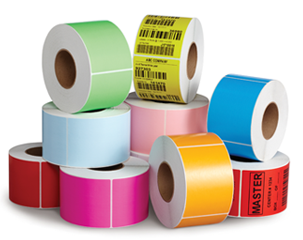
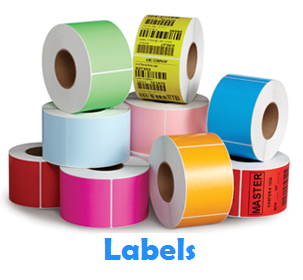
Added pictures with labels on the front page.
This lets the user know exactly what the products are.

diff --git a/home.html b/home.html
@@ -21,10 +21,10 @@
 			<div class="menu-newnav2-container" style="display:inline-block" ><ul id="menu-newnav2" class="menu"><li id="menu-item-4461" ><a href="home.html">Home</a></li>
 <li id="menu-item-3802" ><a>Products</a>
 <ul class="sub-menu">
-	<li id="menu-item-5978" ><a href="/products/Corrugated.html">Corrugated Boxes</a></li>
-	<li id="menu-item-6022" ><a href="/products/labels.html">Labels</a></li>
-	<li id="menu-item-5035" ><a href="/products/bags.html">Bags</a></li>
-	<li id="menu-item-5035" ><a href="/products/rollfilm.html">Roll film</a></li>
+	<li id="menu-item-5978" ><a href="products/Corrugated.html">Corrugated Boxes</a></li>
+	<li id="menu-item-6022" ><a href="products/labels.html">Labels</a></li>
+	<li id="menu-item-5035" ><a href="products/bags.html">Bags</a></li>
+	<li id="menu-item-5035" ><a href="products/rollfilm.html">Roll film</a></li>
 	
 </ul>
 </li>
@@ -62,7 +62,7 @@
 			<!-- So I need to add slide html here -->
 			<div style="margin: 10px 0;"> <div  class="fadelinks">
 <!-- <img src="http://www.completedesignpackaging.com/getattachment/599c74f0-3db9-4c49-8f2f-d47c300f49a3/Charlotte-DNC.aspx?maxsidesize=600" width="900" height="350" align="middle"> -->
-<img alt="" src="http://s15.postimg.org/axr15xpt7/image1.jpg" width="900" height="350" >
+<!-- <img alt="" src="http://s15.postimg.org/axr15xpt7/image1.jpg" width="900" height="350" > -->
 <img alt="" src="http://s13.postimg.org/kb9fyoc1j/products_618pix.jpg" width="900" height="350" >
 <img alt="" src="http://www.hrtlp.com/content/images/uploaded/thermaltransfer.png" width="900" height="350" >
 
@@ -73,10 +73,10 @@
 <div>
 	
 <ul class="nav-pic">
-<li><a title="" href="Corrugated.html"> <img alt="" src="http://s17.postimg.org/jzs19sfxr/corrugated.jpg" /></a></li>
-<li><a title="" href=""> <img alt="" src="http://s4.postimg.org/9mt57bajx/143875642262.png" /></a></li>
-<li><a title="" href=""> <img alt="" src="http://s4.postimg.org/n5461pril/plastic_film_l.jpg" /></a></li>
-<li><a title="" href=""> <img alt="" src="http://s21.postimg.org/hyrm40ko7/Color_Labels.png" /></a></li>
+<li><a title="" href="Corrugated.html"> <img alt="corrugated" src="http://s8.postimg.org/kpl7jbnf9/corrugated.jpg" /></a></li>
+<li><a title="" href=""> <img alt="bags" src="http://s7.postimg.org/8zg0fwwrf/bag.png" /></a></li>
+<li><a title="" href=""> <img alt="plastic film" src="http://s3.postimg.org/92zvdc54j/plastic_film_l_1.jpg" /></a></li>
+<li><a title="" href=""> <img alt="labels" src="http://s27.postimg.org/u6k116f3n/Color_Labels.png" /></a></li>
 </ul>
 </div>
 <div id="intro">

diff --git a/products/rollfilm.html b/products/rollfilm.html
@@ -8,8 +8,8 @@
 <script src="//code.jquery.com/jquery-migrate-1.2.1.min.js"></script>
 <link rel="stylesheet" href="//code.jquery.com/ui/1.11.4/themes/smoothness/jquery-ui.css"> 
  <script src="//code.jquery.com/ui/1.11.4/jquery-ui.js"></script>
-   <script src="home.js"></script>
-    <link rel="stylesheet" type="text/css" href="home.css">
+   <script src="../home.js"></script>
+    <link rel="stylesheet" type="text/css" href="../home.css">
     <script type="text/javascript">
 jQuery(document).ready(function(){
 
@@ -61,7 +61,7 @@ $(function() {
 </style>
 
 
-   <title>Corrugated Products</title>
+   <title>Roll film</title>
 </head>
 <!-- <div id="header-phone">Call 704-906-1135</div>
      <div class="clear"></div> -->

diff --git a/products/labels.html b/products/labels.html
@@ -8,8 +8,8 @@
 <script src="//code.jquery.com/jquery-migrate-1.2.1.min.js"></script>
 <link rel="stylesheet" href="//code.jquery.com/ui/1.11.4/themes/smoothness/jquery-ui.css"> 
  <script src="//code.jquery.com/ui/1.11.4/jquery-ui.js"></script>
-   <script src="home.js"></script>
-    <link rel="stylesheet" type="text/css" href="home.css">
+   <script src="../home.js"></script>
+    <link rel="stylesheet" type="text/css" href="../home.css">
     <script type="text/javascript">
 jQuery(document).ready(function(){
 
@@ -61,7 +61,7 @@ $(function() {
 </style>
 
 
-   <title>Corrugated Products</title>
+   <title>Labels</title>
 </head>
 <!-- <div id="header-phone">Call 704-906-1135</div>
      <div class="clear"></div> -->

diff --git a/products/bags.html b/products/bags.html
@@ -8,8 +8,8 @@
 <script src="//code.jquery.com/jquery-migrate-1.2.1.min.js"></script>
 <link rel="stylesheet" href="//code.jquery.com/ui/1.11.4/themes/smoothness/jquery-ui.css"> 
  <script src="//code.jquery.com/ui/1.11.4/jquery-ui.js"></script>
-   <script src="home.js"></script>
-    <link rel="stylesheet" type="text/css" href="home.css">
+   <script src="../home.js"></script>
+    <link rel="stylesheet" type="text/css" href="../home.css">
     <script type="text/javascript">
 jQuery(document).ready(function(){
 
@@ -61,7 +61,7 @@ $(function() {
 </style>
 
 
-   <title>Corrugated Products</title>
+   <title>Bags</title>
 </head>
 <!-- <div id="header-phone">Call 704-906-1135</div>
      <div class="clear"></div> -->

diff --git a/products/Corrugated.html b/products/Corrugated.html
@@ -8,8 +8,8 @@
 <script src="//code.jquery.com/jquery-migrate-1.2.1.min.js"></script>
 <link rel="stylesheet" href="//code.jquery.com/ui/1.11.4/themes/smoothness/jquery-ui.css"> 
  <script src="//code.jquery.com/ui/1.11.4/jquery-ui.js"></script>
-   <script src="home.js"></script>
-    <link rel="stylesheet" type="text/css" href="home.css">
+   <script src="../home.js"></script>
+    <link rel="stylesheet" type="text/css" href="../home.css">
     <script type="text/javascript">
 jQuery(document).ready(function(){
 
